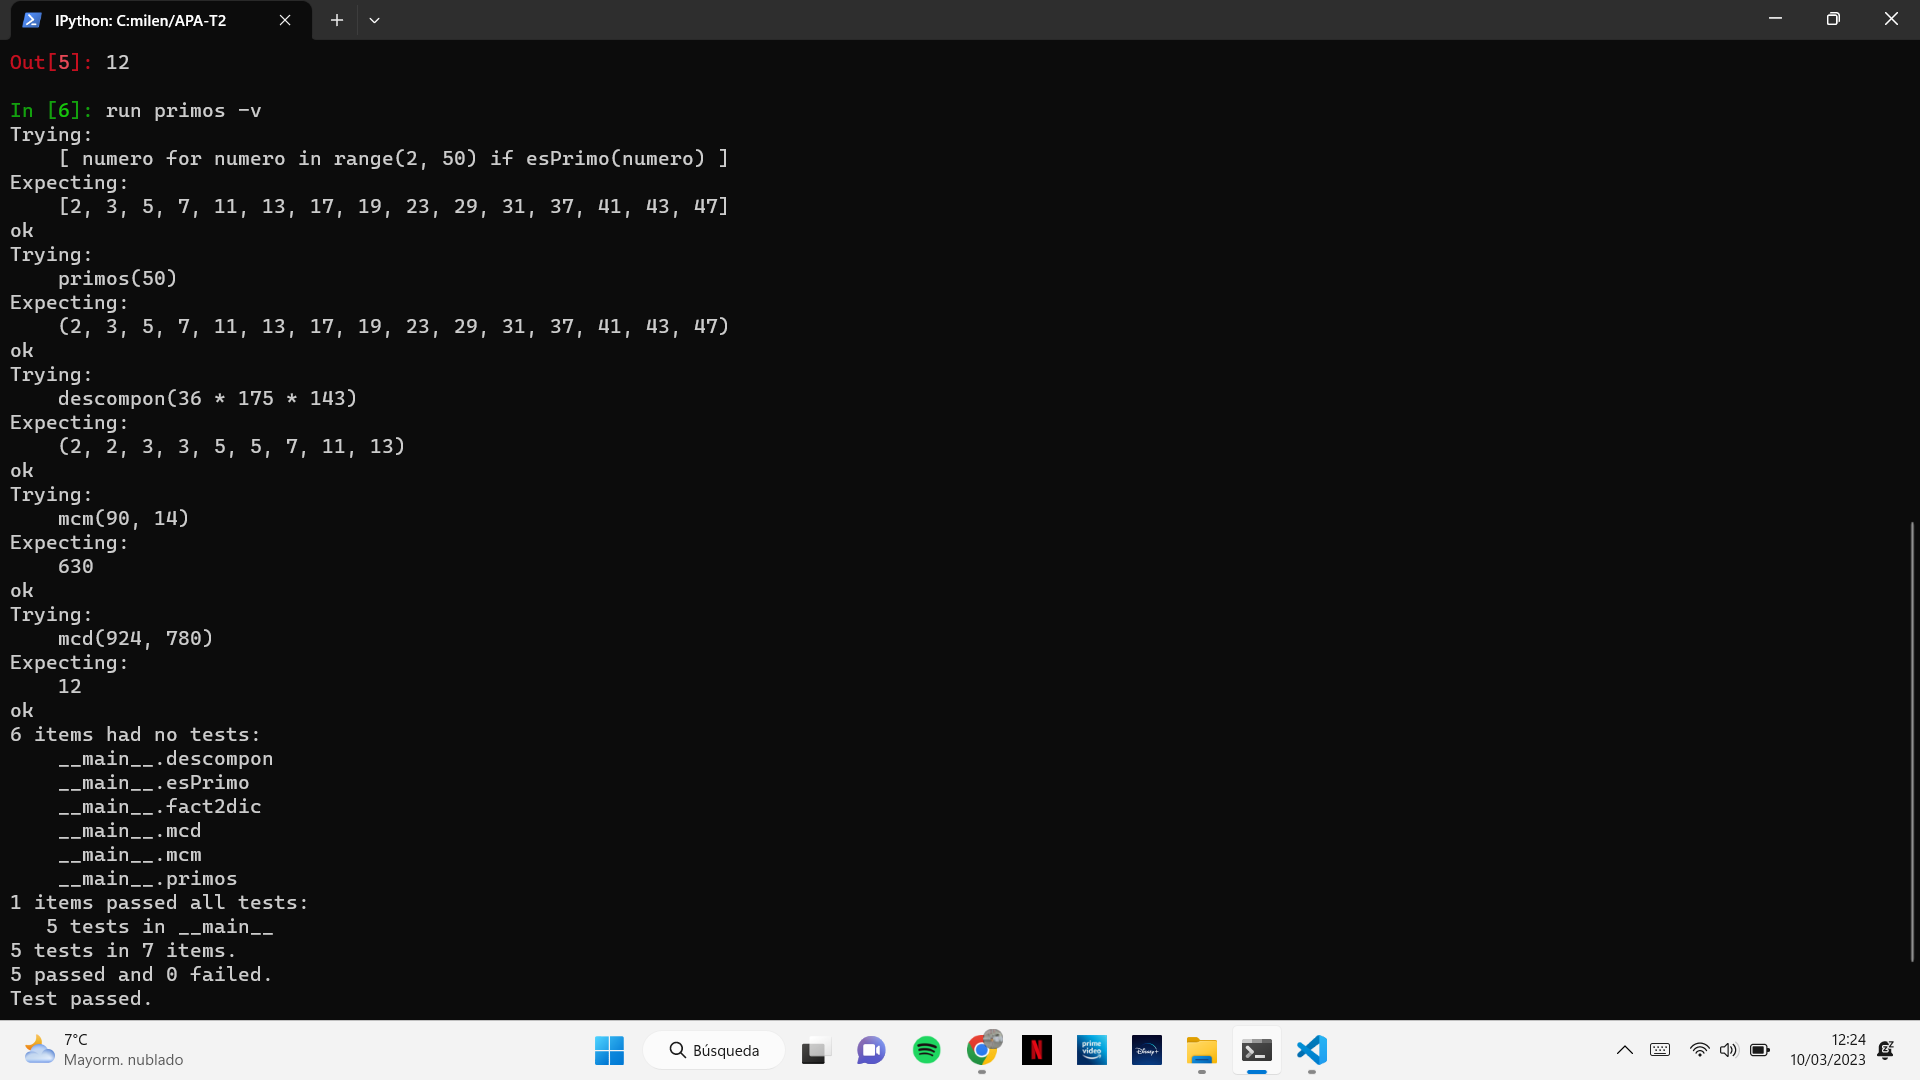
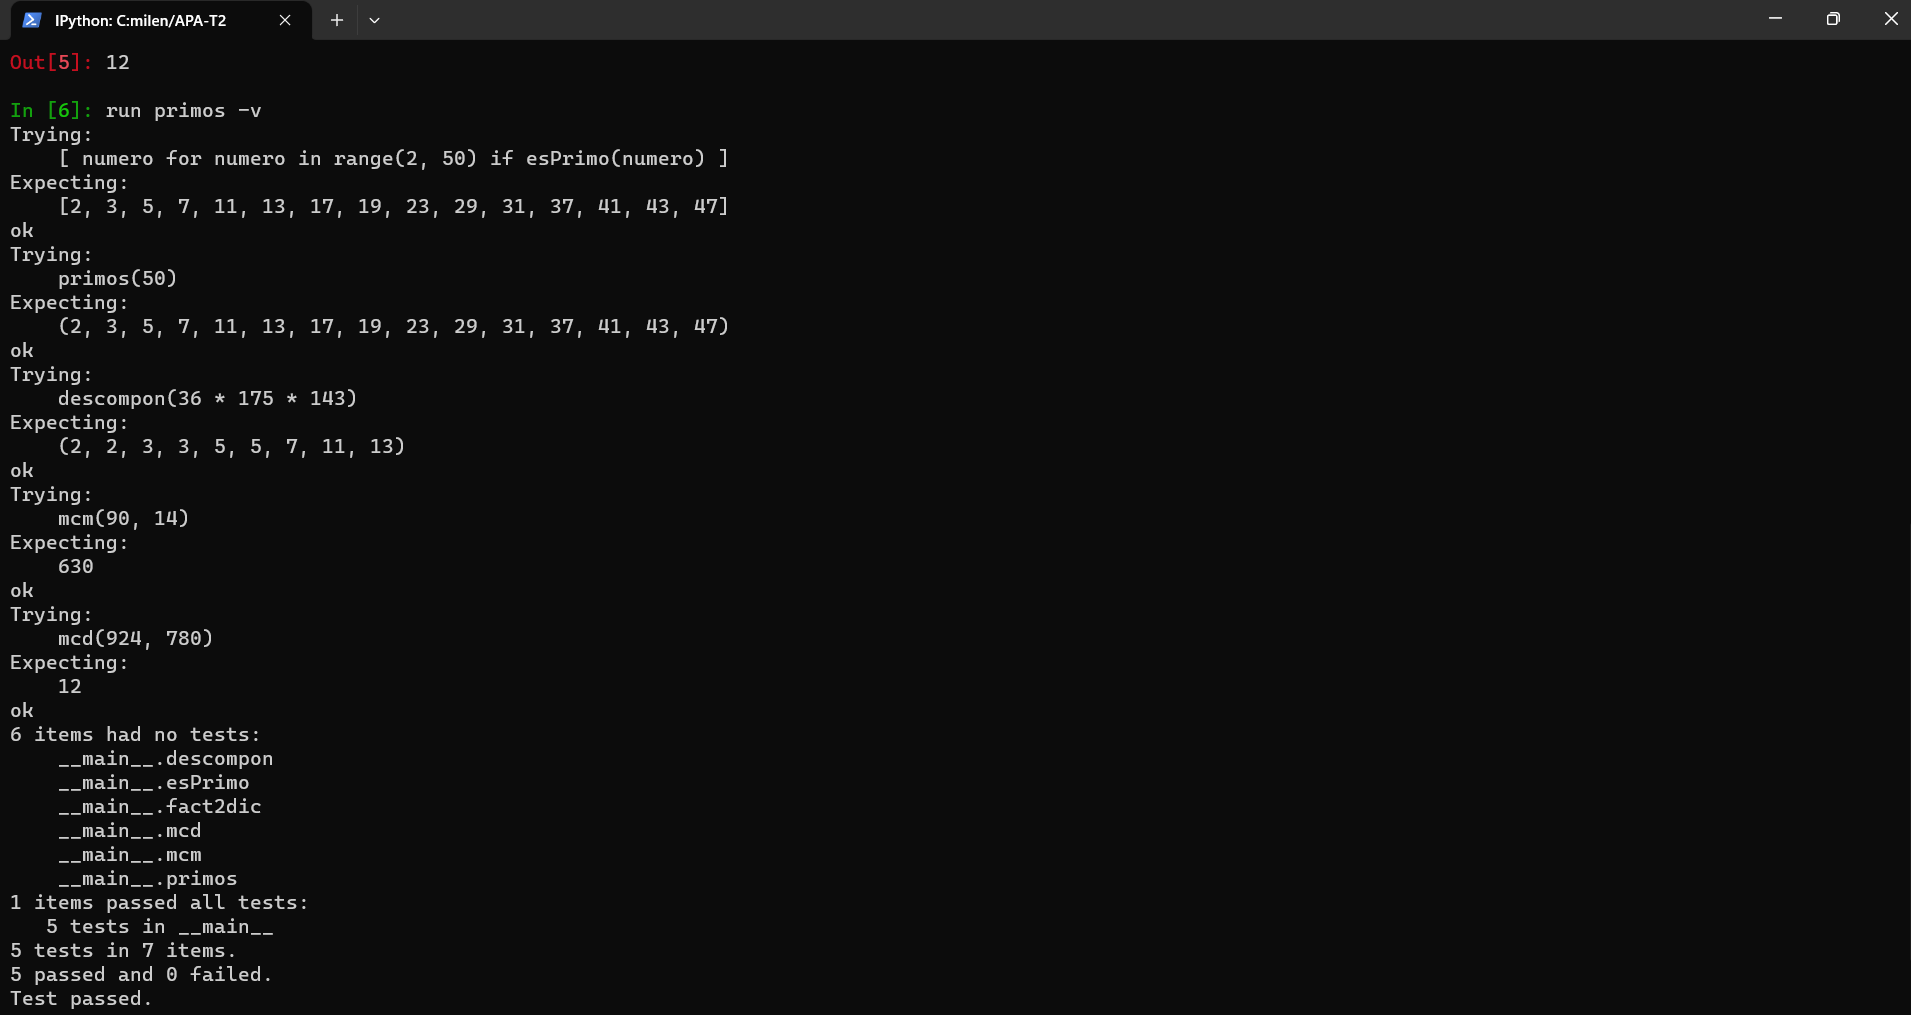
imagen

Changed region(s): [[0.0, 0.0, 1.0, 1.0], [0.988, 0.4887, 1.0, 0.8857]]

diff --git a/README.md b/README.md
@@ -59,6 +59,9 @@ comprobarse las siguientes condiciones:
 Inserte a continuación una captura de pantalla que muestre el resultado de ejecutar el fichero `primos.py` con la opción
 *verbosa*, de manera que se muestre el resultado de la ejecución de los tests unitarios.
 
+Al hacer la opción verbosa nos da el siguiente resultado:
+<img src="test.png" width="480" align="center">
+
 #### Código desarrollado
 
 Inserte a continuación el contenido del fichero `primos.py` usando los comandos necesarios para que se realice el
